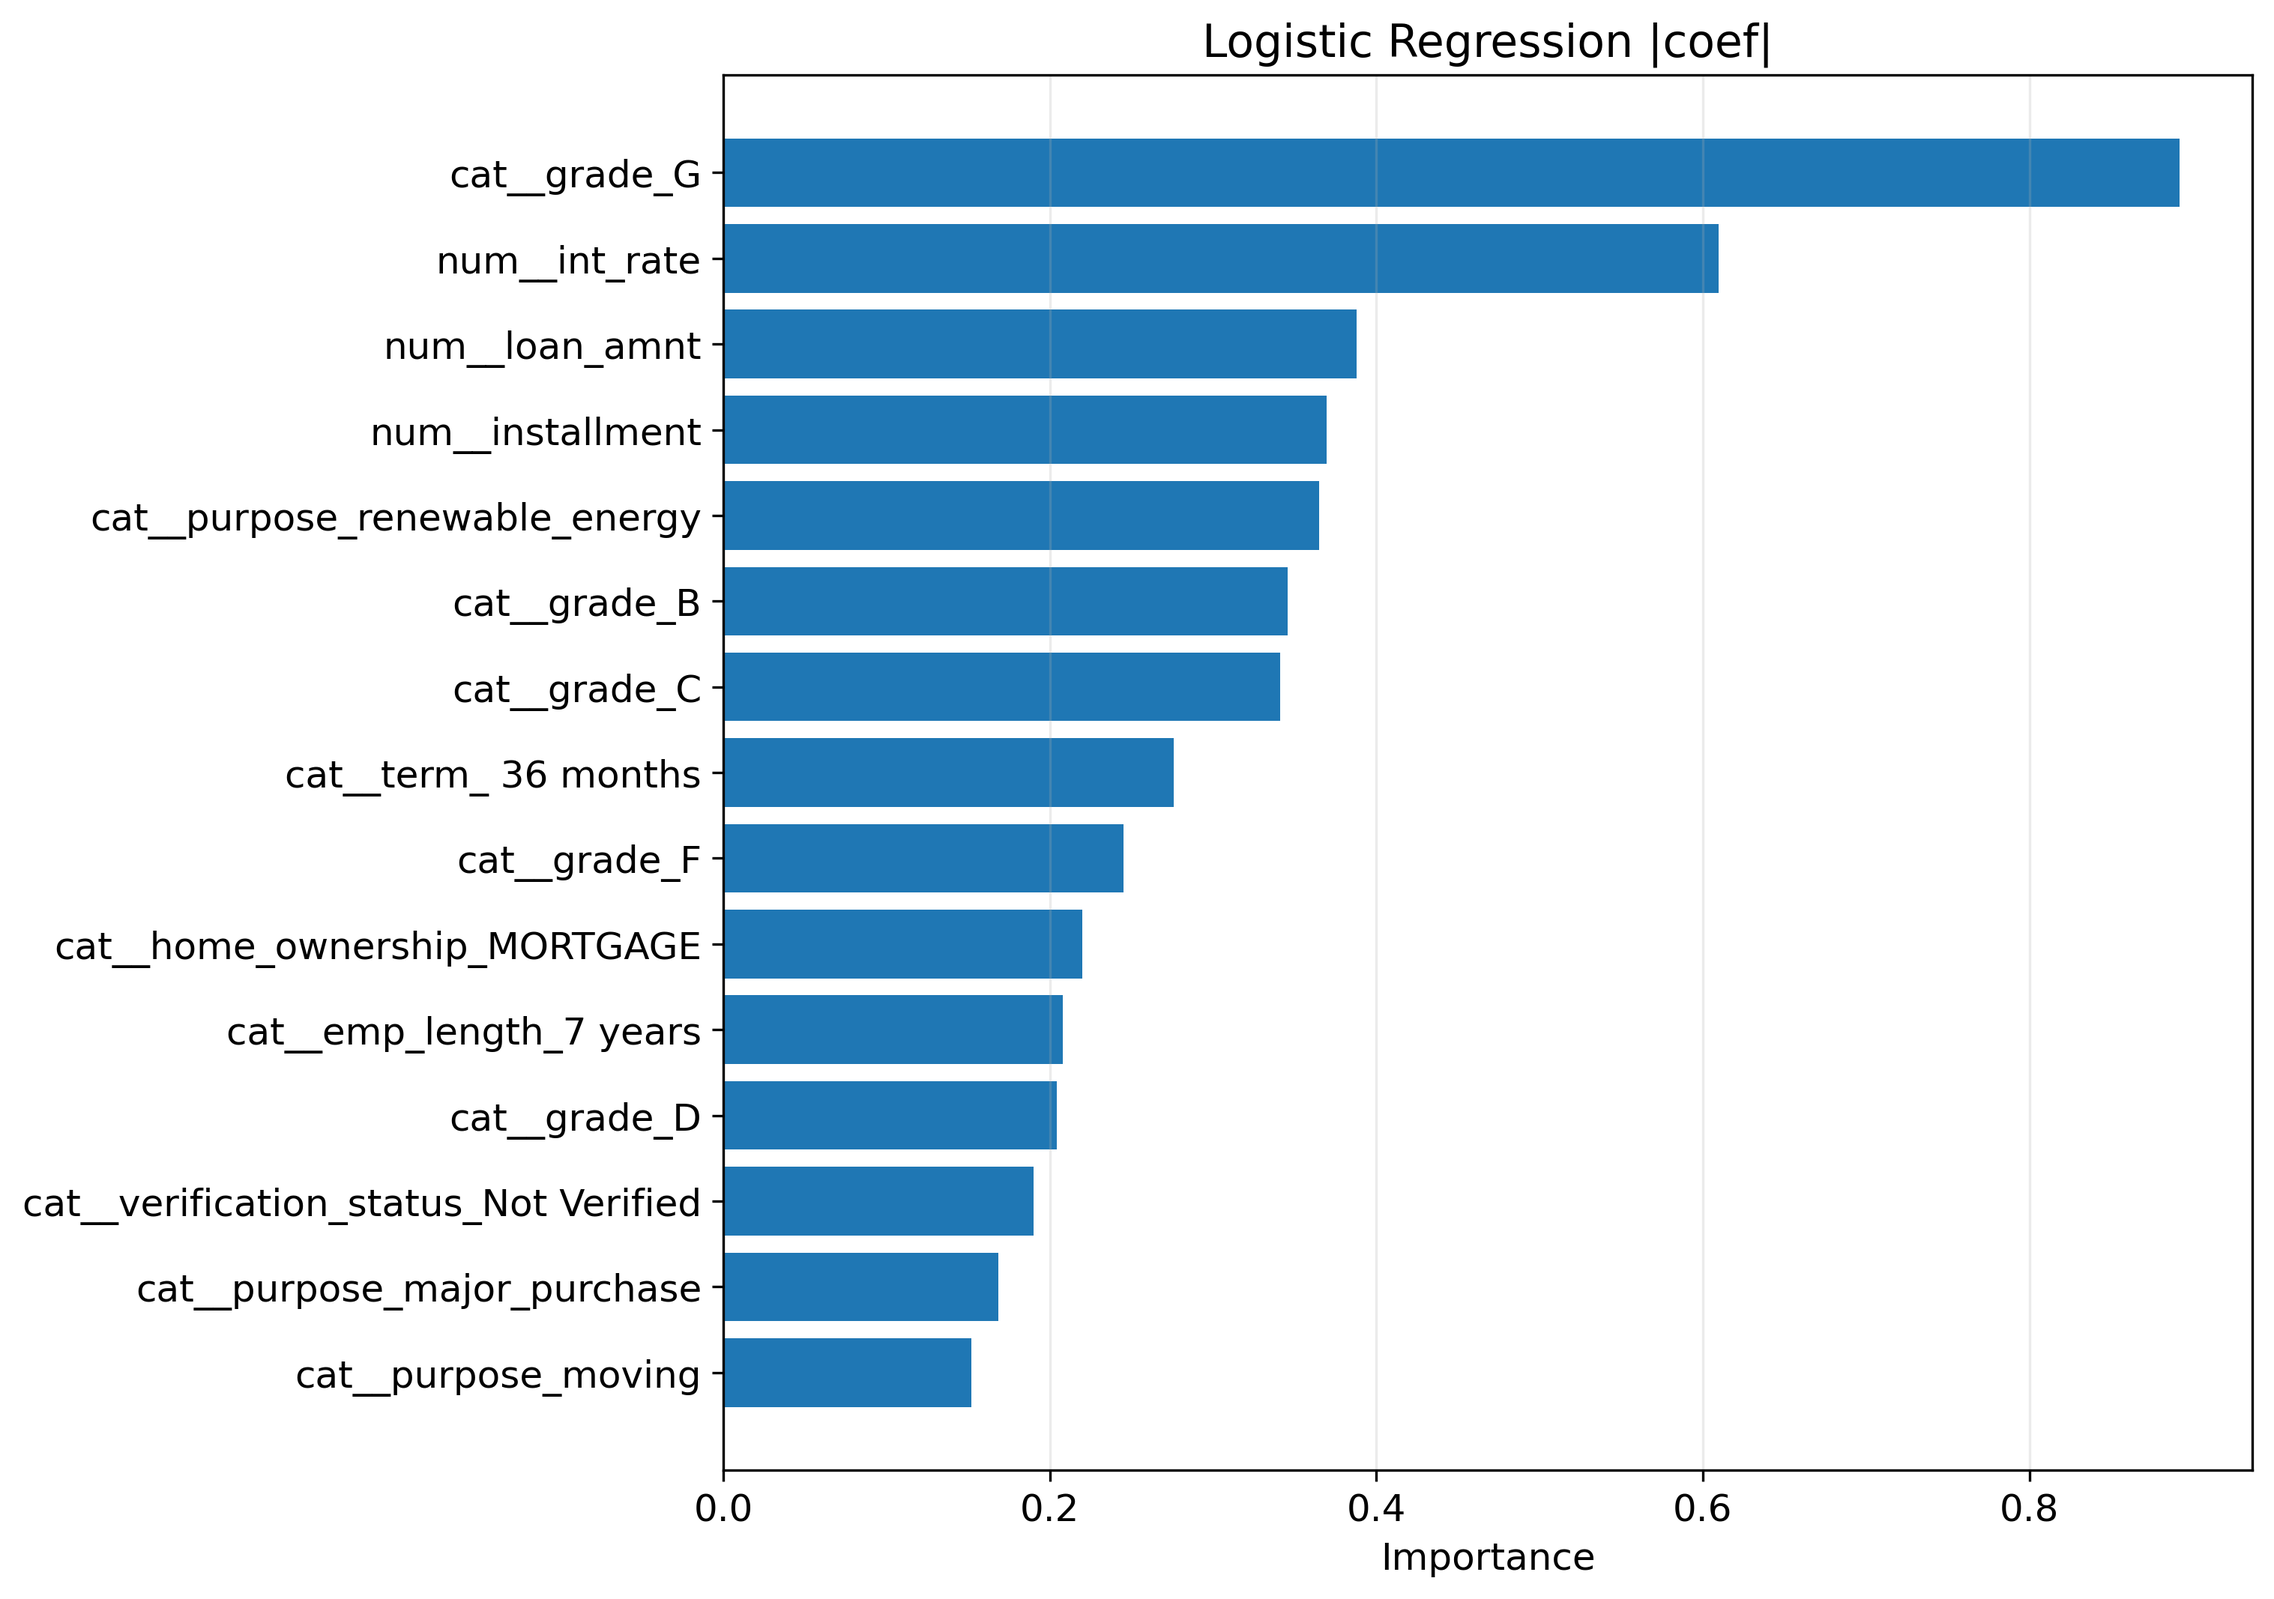
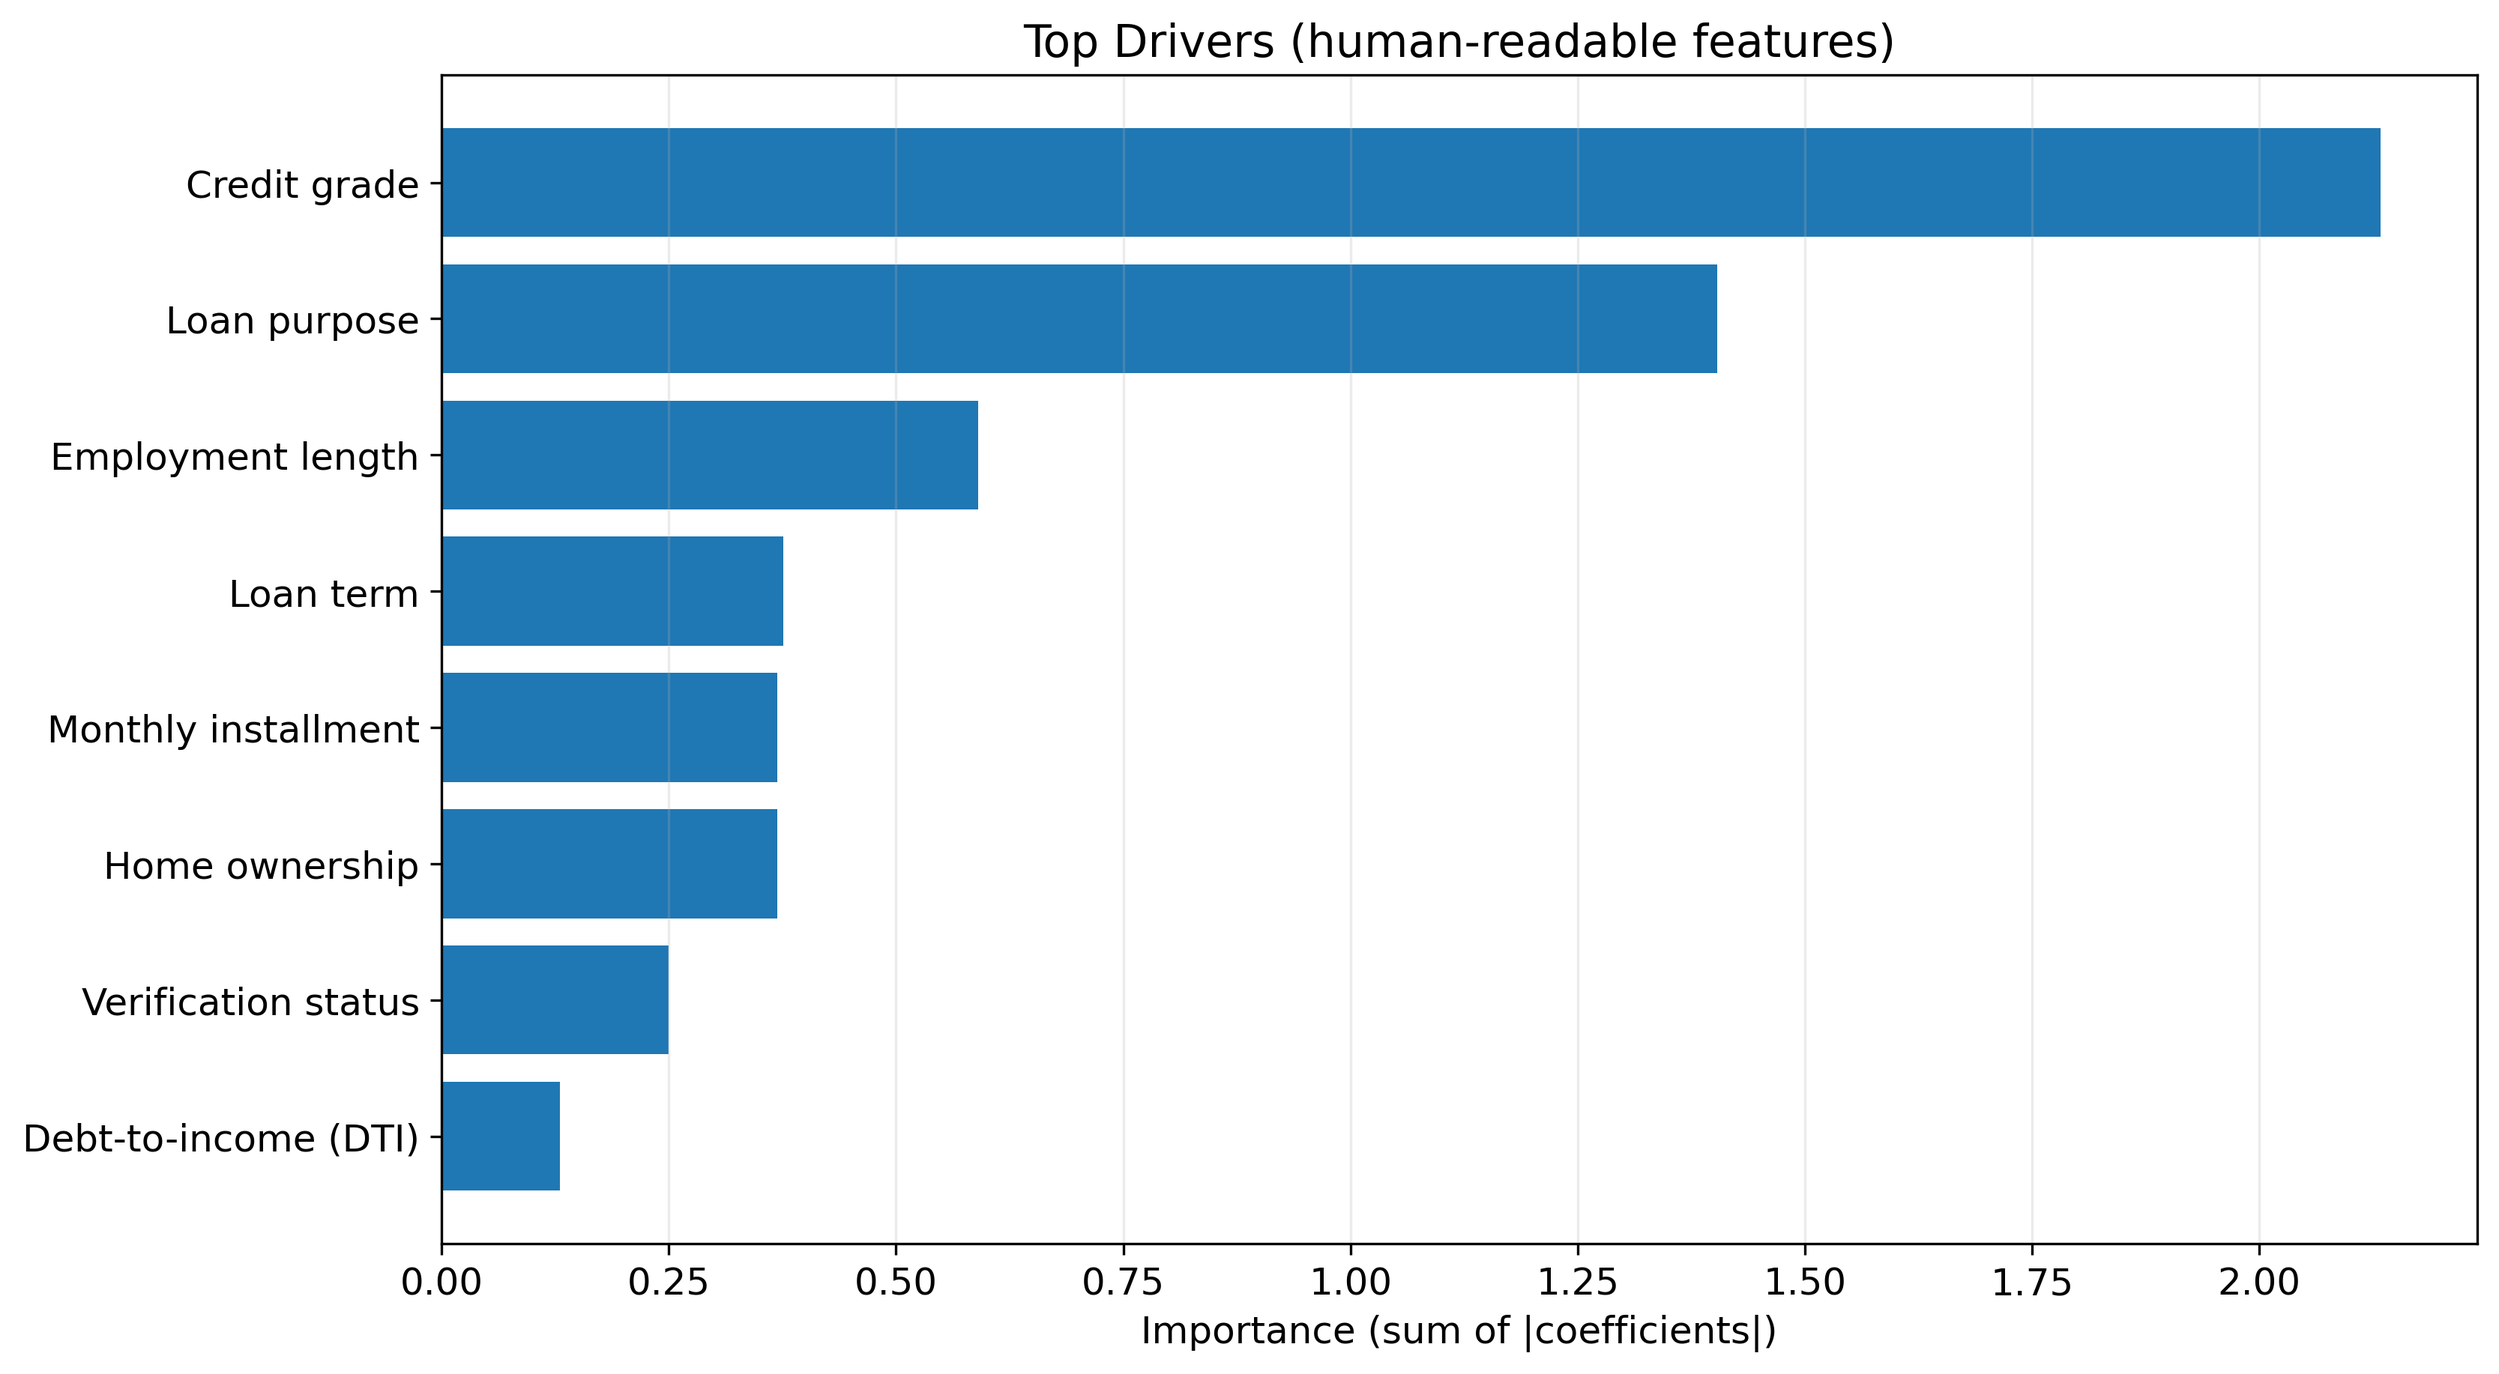
Make feature importance readable (aggregate one-hot categories + friendly labels)

Changed region(s): [[0.0, 0.0, 0.9914, 0.9945], [0.1549, 0.9013, 0.2169, 0.9635]]

diff --git a/project/credit_risk/visualizer.py b/project/credit_risk/visualizer.py
@@ -15,6 +15,7 @@ Plots included (intentionally minimal / recruiter-friendly):
 from __future__ import annotations
 
 import os
+import re
 
 import matplotlib.pyplot as plt
 import numpy as np
@@ -195,14 +196,53 @@ class Visualizer:
             title = "Logistic Regression |coef|"
         else:
             return None
+        # --- NEW: aggregate one-hot features back to original feature names ---
+        
+        FRIENDLY = {
+            "int_rate": "Interest rate (%)",
+            "loan_amnt": "Loan amount",
+            "installment": "Monthly installment",
+            "grade": "Credit grade",
+            "term": "Loan term",
+            "home_ownership": "Home ownership",
+            "purpose": "Loan purpose",
+            "emp_length": "Employment length",
+            "verification_status": "Verification status",
+            "annual_inc": "Annual income",
+            "dti": "Debt-to-income (DTI)",
+            "revol_util": "Revolving utilization (%)",
+         }
+        
+        def base_name(feat: str) -> str:
+            # drop ColumnTransformer prefixes like num__/cat__
+            f = re.sub(r"^(num__|cat__)", "", feat)
+                # handle known multiword bases first
+            for multi in ["home_ownership", "verification_status", "emp_length"]:
+                if f.startswith(multi + "_"):
+                     return multi
+                # default: take token before first underscore (grade_G -> grade)
+            return f.split("_", 1)[0]
+        imp_df = pd.DataFrame({"feature": feature_names, "importance": np.abs(importances)})
+        imp_df["base"] = imp_df["feature"].apply(base_name)
+        
+        # Sum importance across one-hot columns (e.g., all grade_* -> grade)
+        agg = imp_df.groupby("base", as_index=False)["importance"].sum()
+        agg["label"] = agg["base"].map(FRIENDLY).fillna(agg["base"])
 
-        imp_df = pd.DataFrame({"feature": feature_names, "importance": importances})
-        imp_df = imp_df.sort_values("importance", ascending=False).head(int(top_n)).iloc[::-1]
+        # OPTIONAL: keep only business-readable core features (remove “weird” ones)
+        KEEP = {
+         "int_rate", "loan_amnt", "installment", "grade", "term",
+         "annual_inc", "dti", "revol_util", "purpose", "home_ownership",
+         "emp_length", "verification_status"
+        }
+        
+        agg = agg[agg["base"].isin(KEEP)]
+        agg = agg.sort_values("importance", ascending=False).head(int(top_n)).iloc[::-1]
 
-        fig, ax = plt.subplots(figsize=(10, 7), constrained_layout=True)
-        ax.barh(imp_df["feature"], imp_df["importance"], color=self.colors["primary"])
-        ax.set_title(title)
-        ax.set_xlabel("Importance")
+        fig, ax = plt.subplots(figsize=(11, 6), constrained_layout=True)
+        ax.barh(agg["label"], agg["importance"])  # readable labels
+        ax.set_title("Top Drivers (human-readable features)")
+        ax.set_xlabel("Importance (sum of |coefficients|)")
         ax.grid(True, alpha=0.25, axis="x")
 
         return self._save(fig, "04_feature_importance.png")
